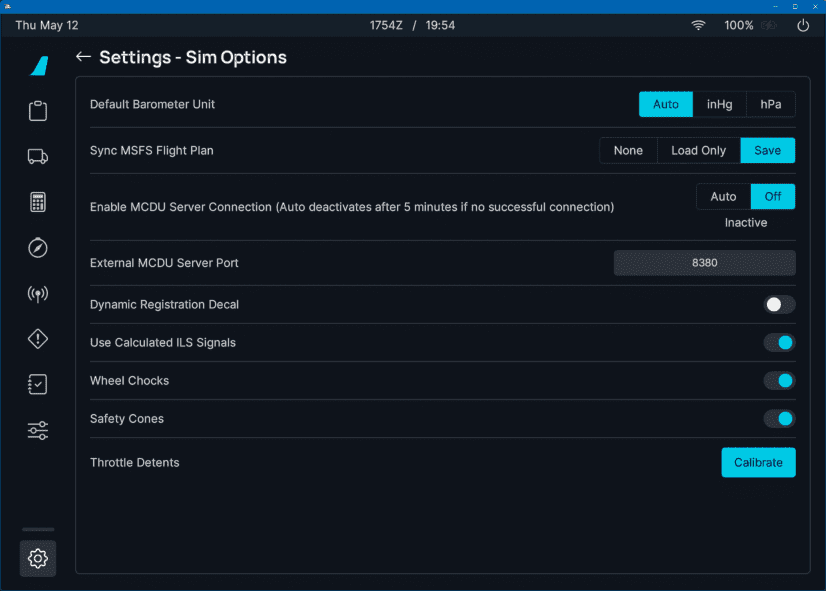
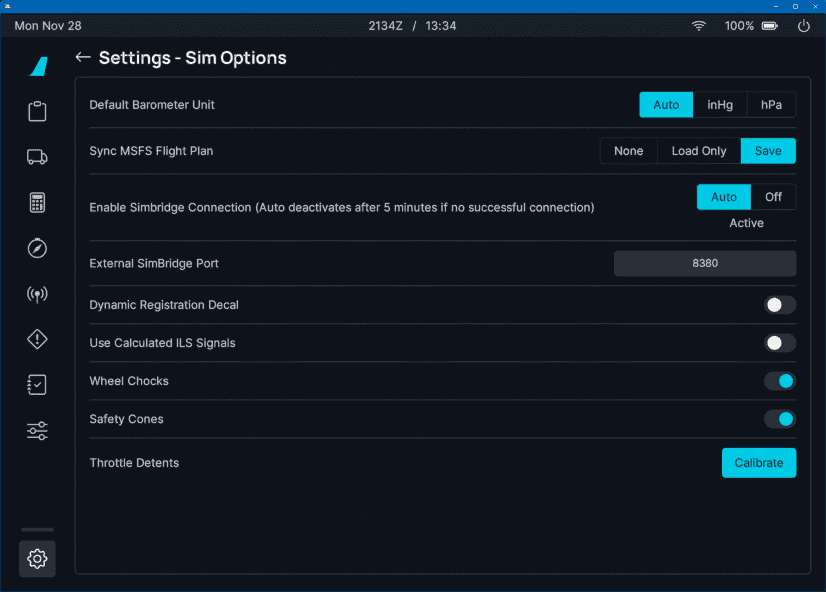
docs: Update flyPad settings.md rename MCDU Server to SimBridge (#683)
* Update to flyPad settings.md to rename MCDU Server to SimBridge and change image

* fix missed term

* fix missed term

* Added link to SimBridge Guide

diff --git a/docs/fbw-a32nx/feature-guides/flypados3/settings.md b/docs/fbw-a32nx/feature-guides/flypados3/settings.md
@@ -107,31 +107,26 @@ Settings for simulation aspects of the A32NX aircraft.
 
         !!! warning "Synchronization Issues Expected"
             The aircraft's custom Flight Management System provides better accuracy and features over the default flight plan manager in Microsoft Flight simulator which results in issues syncing the flight plan from the MCDU back into the simulator. Do not expect it to work properly in all cases.
+
+- Enable SimBridge Connection
+    - Auto:
+        - The aircraft attempts to connect to the SimBridge for 5min after pressing "Ready to Fly" (`Active` is 
+          shown).
+        - If this setting is selected the aircraft will try to connect to the SimBridge for 5min after every start of 
+           a new flight.
+        - After 5min of unsuccessful connection attempts the aircraft will stop any further attempts and `Inactive` 
+          will be shown.
+        - If `Inactive` is shown, but you want to connect to the SimBridge just click on `Off`, wait a few 
+          seconds, and then click on `Auto` again.
+    - Off:
+        - The aircraft will not make any attempts to connect to the SimBridge.
+    - Also see our [SimBridge Guide](../../../simbridge/index.md) on which features require the SimBridge and how to 
+      set up and configure it. 
  
-- Enable MCDU Server Connection
-    - Auto:
-        - The MCDU attempts to connect to the MCDU Server for 5min after pressing "Ready to Fly" (`Active` is shown).
-        - If this setting is selected the MCDU will try to connect to the MCDU Server for 5min after every start of 
-           a new flight.
-        - After 5min of unsuccessful connection attempts the MCDU will stop any further attempts and `Inactive` will be
-          shown.
-        - If `Inactive` is shown, but you want to connect to the MCDU server just click on `Off` and then `Auto` again.
-    - Off:
-        - The MCDU will not make any attempts to connect to the MCDU Server.
-- External MCDU Server Port
-    - User can change the port for the internal MCDU websocket server in case the default port is already occupied on the user's system.
+- External SimBridge Port
+    - User can change the port for the SimBridge in case the default port is already occupied on the user's system.
     - Default is: 8380
-    - ~~This is not the port for using in the browser to access the MCDU Web Interface.~~
-- Enable MCDU Server Connection
-    - Auto:
-        - The MCDU attempts to connect to the MCDU Server for 5min after pressing "Ready to Fly" (`Active` is shown).
-        - If this setting is selected the MCDU will try to connect to the MCDU Server for 5min after every start of 
-           a new flight.
-        - After 5min of unsuccessful connection attempts the MCDU will stop any further attempts and `Inactive` will be
-          shown.
-        - If `Inactive` is shown but you want to connect to the MCDU server just click on `Off` and then `Auto` again.
-    - Off:
-        - The MCDU will not make any attempts to connect to the MCDU Server.
+
 - Dynamic Registration Decal:
     - The dynamic registration number decal shown on the external livery can be disabled to improve appearance when using liveries with a static registration number.
 - Use calculated ILS signals
